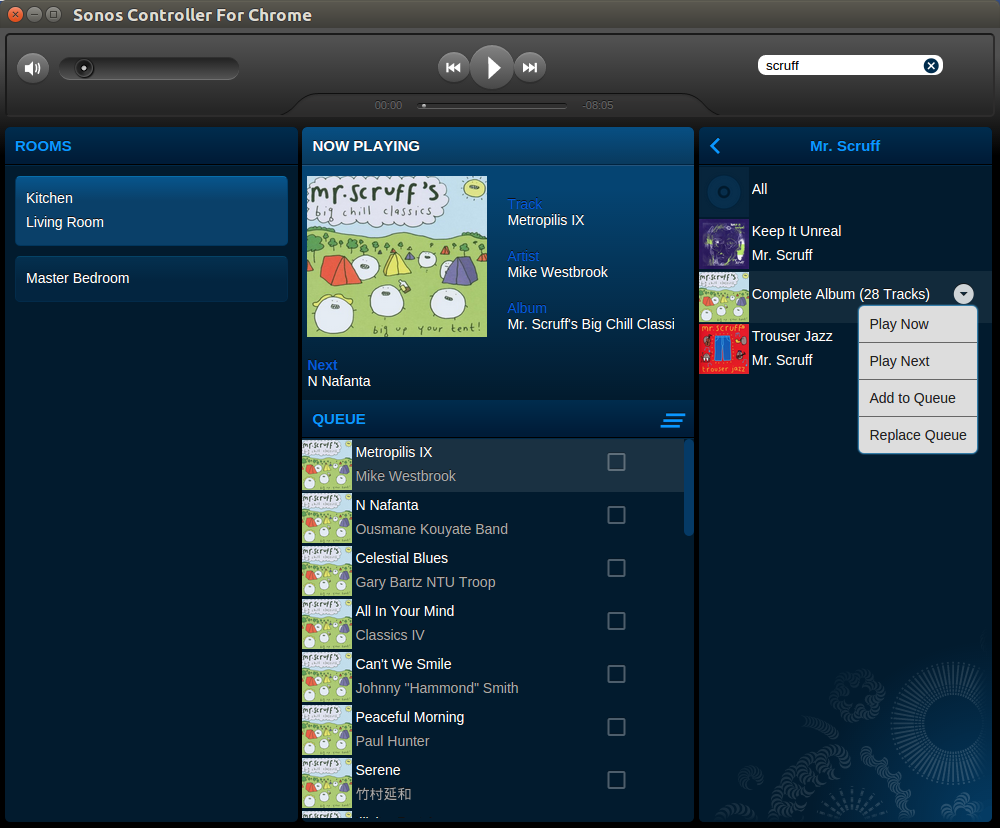
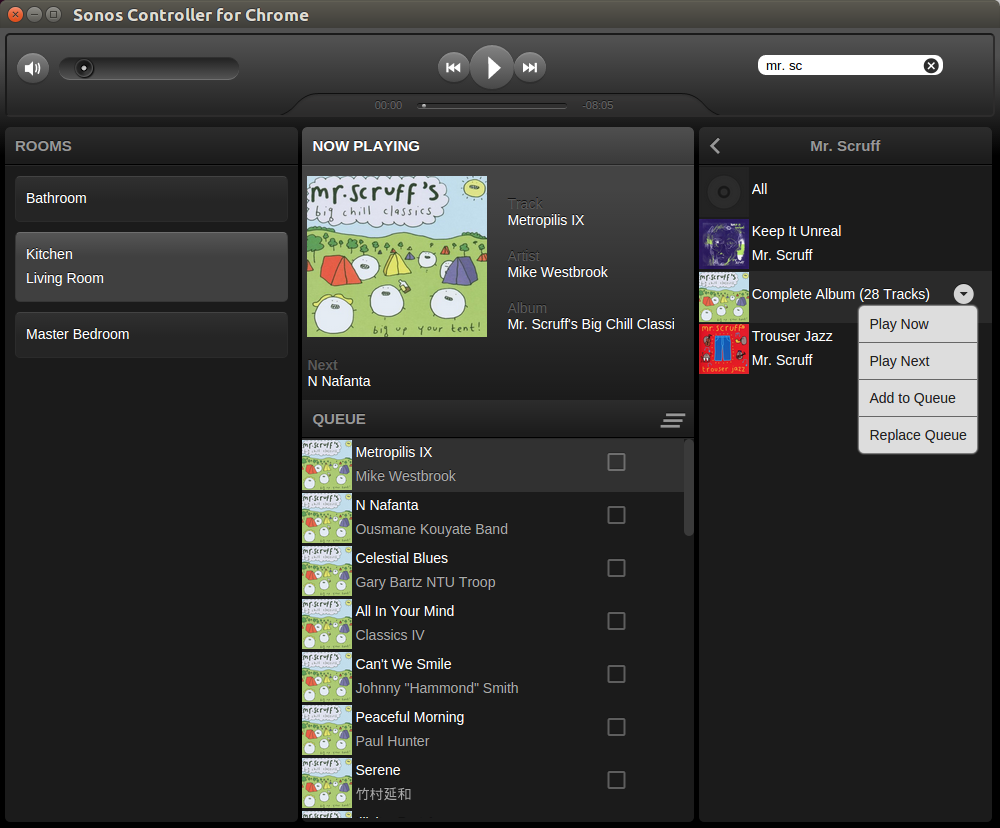
More colors changed, debug album art promise cancel bug, new screenshot

diff --git a/css/main.css b/css/main.css
@@ -90,11 +90,11 @@ body {
 	background: #1B1B1B;
 }
 ::-webkit-scrollbar-thumb {
-	background: #053A66;
+	background: #3A3A3A;
 	border-radius: 10px;
 }
 ::-webkit-scrollbar-thumb:hover {
-	background: #07569B;
+	background: #565656;
 }
 
 h4 {
@@ -331,14 +331,14 @@ h4 {
 }
 
 #status-container h6 {
-	color: rgb(4,90,218);
+	color: rgb(90,90,90);
 	font-weight: normal;
 	font-size: 14px;
 	margin: 0;
 }
 
 #status-container h5 {
-	color: rgb(4,90,218);
+	color: rgb(90,90,90);
 	font-size: 14px;
 	margin: 0;
 	margin-top: 4px;
@@ -562,8 +562,8 @@ h4 {
 }
 
 #position-bar-scrubber:hover {
-	background: linear-gradient(to bottom, #4399CC, #086EAA);
-	box-shadow: 0px 0px 1px 1px #4399CC;
+	background: linear-gradient(to bottom, #999999, #6E6E6E);
+	box-shadow: 0px 0px 1px 1px #999999;
 }
 
 #position-bar-scrubber.sliding {
@@ -582,30 +582,30 @@ h4 {
 }
 
 #zone-wrapper ul {
-	background-image: -moz-linear-gradient(top, #04304F 0px, #032540 24px);
-	background-image: -webkit-linear-gradient(top, #04304F 0px, #032540 24px);
+	background-image: -moz-linear-gradient(top, #303030 0px, #252525 24px);
+	background-image: -webkit-linear-gradient(top, #303030 0px, #252525 24px);
 	margin: 10px;
 	padding: 10px 10px 10px 10px;
 	border-radius: 5px;
-	border-top: 1px solid #054367;
-	border-right: 1px solid #032B4A;
-	border-left: 1px solid #032C4B;
-	border-bottom: 1px solid #032B4A;
+	border-top: 1px solid #434343;
+	border-right: 1px solid #2B2B2B;
+	border-left: 1px solid #2C2C2C;
+	border-bottom: 1px solid #2B2B2B;
 	position: relative;
 }
 
 #zone-wrapper ul.selected {
 	background-image: -moz-linear-gradient(top, #555555 0px, #404040 24px);
 	background-image: -webkit-linear-gradient(top, #555555 0px, #404040 24px);
-	border-top: 1px solid #086EAA;
-	border-right: 1px solid #003F6C;
-	border-left: 1px solid #02375E;
-	border-bottom: 1px solid #01365D;
+	border-top: 1px solid #6E6E6E;
+	border-right: 1px solid #3F3F3F;
+	border-left: 1px solid #373737;
+	border-bottom: 1px solid #363636;
 }
 
 #zone-wrapper ul:hover {
-	background-image: -moz-linear-gradient(top, #096EB6 0px, #0E568D 24px);
-	background-image: -webkit-linear-gradient(top, #096EB6 0px, #0E568D 24px);
+	background-image: -moz-linear-gradient(top, #6E6E6E 0px, #565656 24px);
+	background-image: -webkit-linear-gradient(top, #6E6E6E 0px, #565656 24px);
 }
 
 
@@ -795,7 +795,7 @@ body #queue-container li[data-is-current=true] {
 	padding: 0;
 	top: 35px;
 	right: 15px;
-	box-shadow: 0px 0px 1px 1px #4399CC;
+	box-shadow: 0px 0px 1px 1px #999999;
 }
 
 

diff --git a/src/ui/components/AlbumArt.jsx b/src/ui/components/AlbumArt.jsx
@@ -40,6 +40,7 @@ class AlbumArt extends React.Component {
 		let url = this.props.src;
 		let srcUrl = (url.indexOf('http://') === 0) ? url : 'http://' + sonos.host + ':' + sonos.port + decodeURIComponent(url);
 
+		this.srcUrl = srcUrl;
 		this.promise = resourceLoader.add(srcUrl).then((data) => {
 			if(this.props.src === url) {
 				this.setState({
@@ -70,7 +71,9 @@ class AlbumArt extends React.Component {
 
 	componentWillUnmount () {
 		if(this.promise) {
-			resourceLoader.remove(this.promise);
+			resourceLoader.remove(this.promise, this.srcUrl);
+			this.promise = null;
+			this.srcUrl = null;
 		}
 
 		if(this.timeout) {

diff --git a/src/ui/helpers/resourceLoader.js b/src/ui/helpers/resourceLoader.js
@@ -74,7 +74,7 @@ export default {
 		return p;
 	},
 
-	remove(p) {
-		pending = _.without(pending, p);
+	remove(p, url) {
+		pending[url] = _.without(pending[url], p);
 	}
 };
